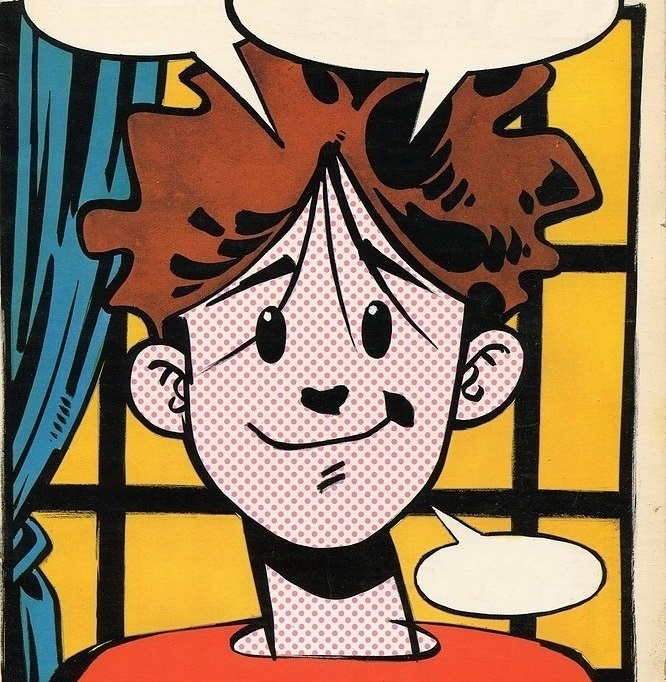
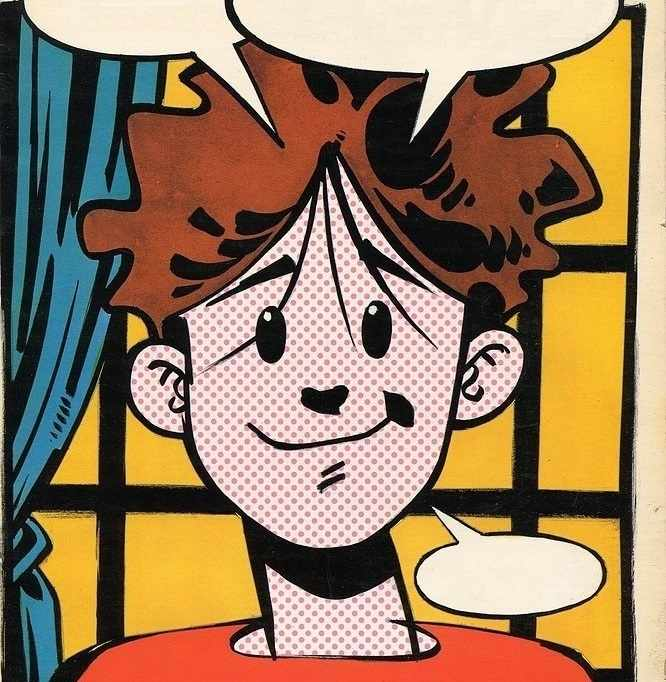
Images optimization added

diff --git a/vite.config.ts b/vite.config.ts
@@ -1,10 +1,21 @@
+import { ViteImageOptimizer } from 'vite-plugin-image-optimizer'
 import { defineConfig } from 'vite'
 import react from '@vitejs/plugin-react'
 import path from 'path'
 
 // https://vitejs.dev/config/
 export default defineConfig({
-  plugins: [react()],
+  plugins: [
+    react(),
+    ViteImageOptimizer({
+      jpg: {
+        quality: 45,
+      },
+      png: {
+        quality: 45,
+      },
+    }),
+  ],
   build: {
     outDir: 'docs',
   },
